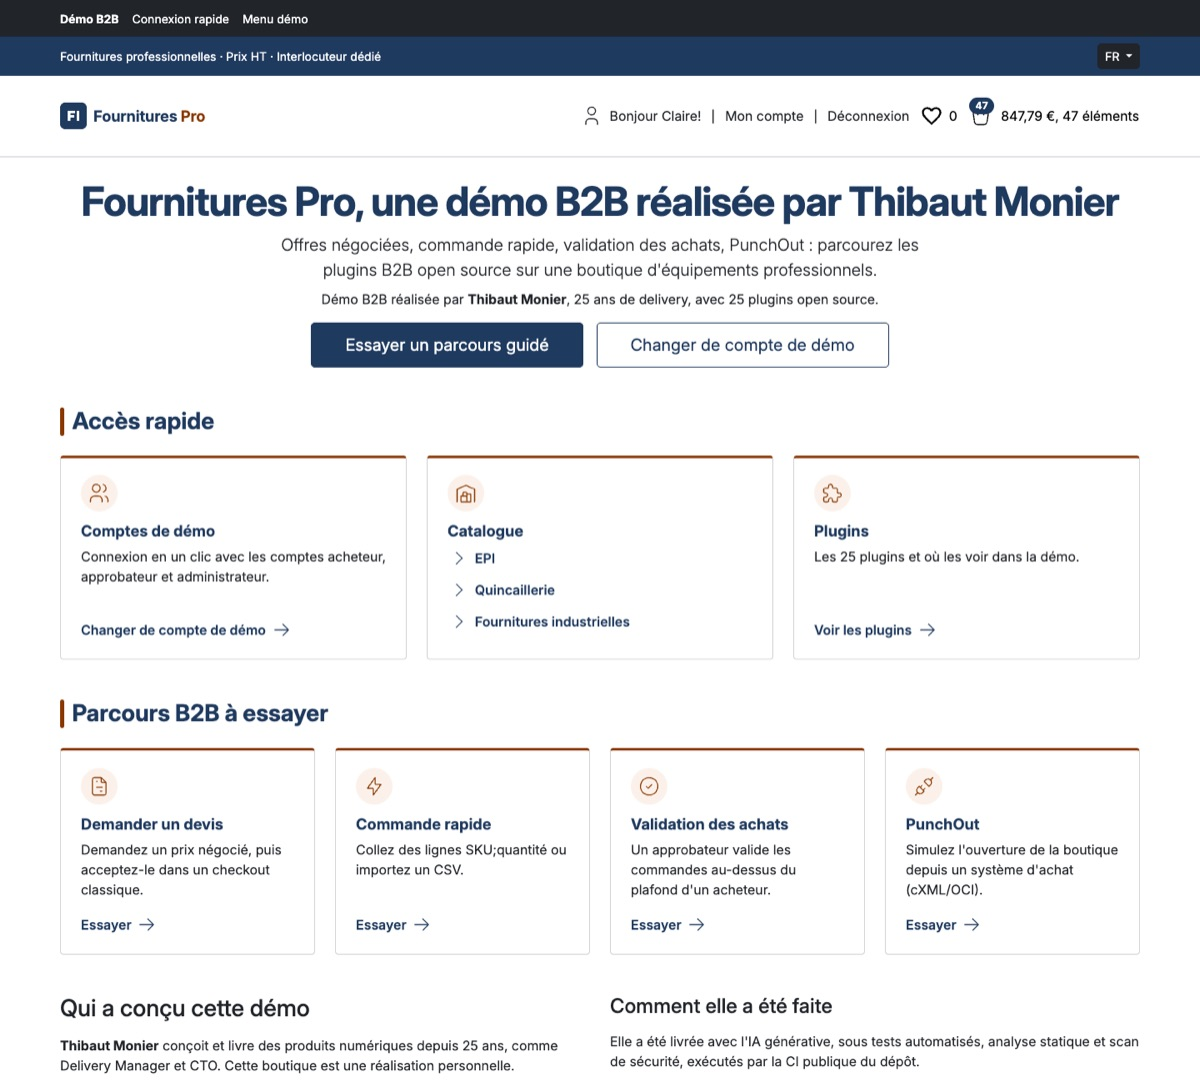
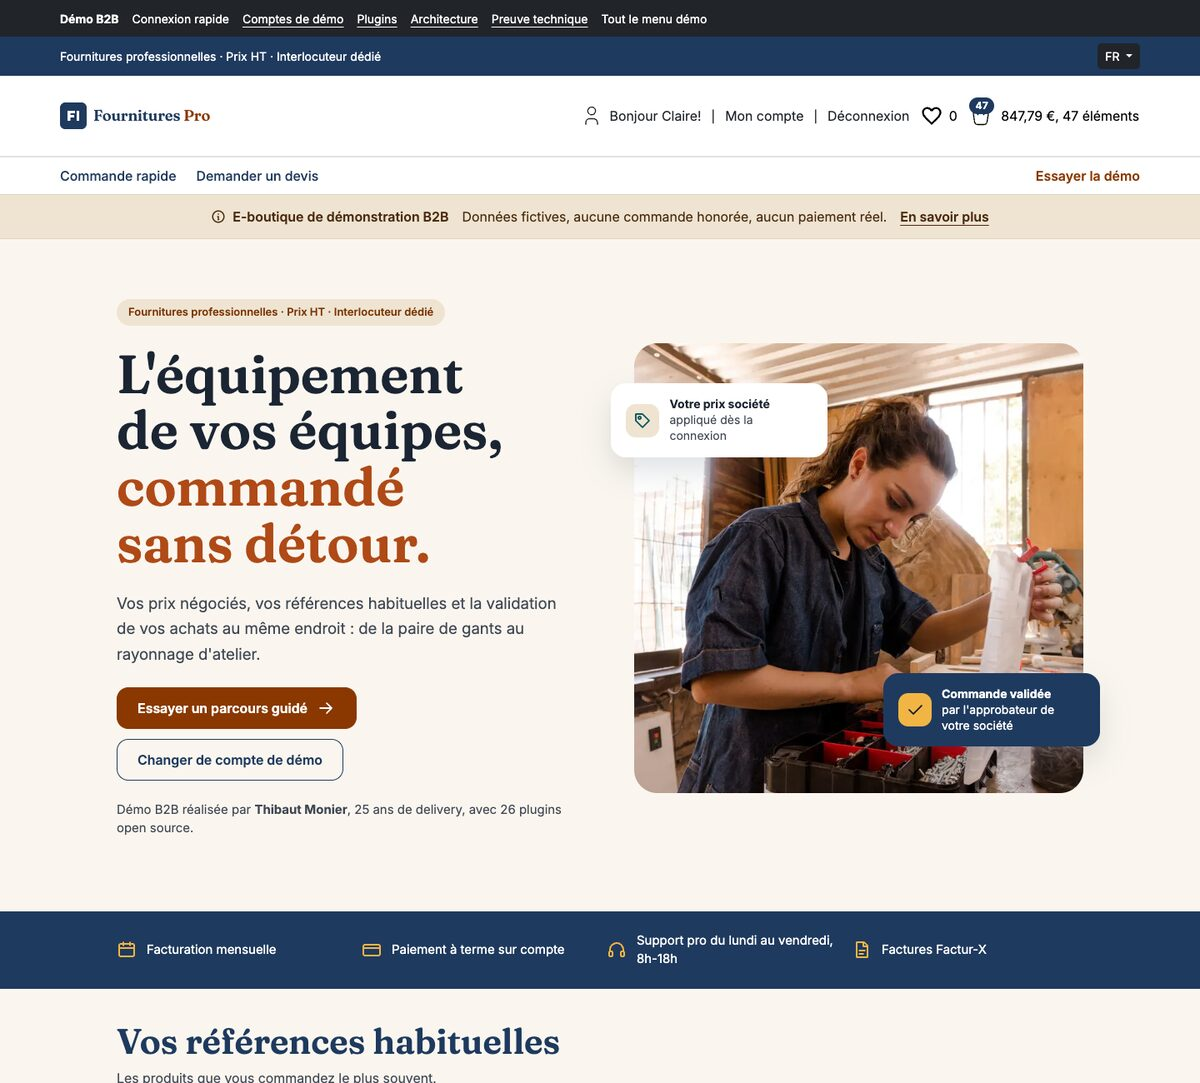
fix(home): US-186 liens de canal à 44 px, ligne de services dans le conteneur, préchargement avec href, captures
Captures de l'accueil (visiteur et acheteuse, FR et EN), README, statuts des tâches.

Claude-Session: https://claude.ai/code/session_01EUTS3K2bdSqoL7EFUFktDX

diff --git a/project-management/sprints/sprint-26-vitrine-et-flux/tasks/US-186-tasks.md b/project-management/sprints/sprint-26-vitrine-et-flux/tasks/US-186-tasks.md
@@ -56,13 +56,13 @@ La colonne « Réalisé par » dit qui fait la tâche : **Claude**, **Orchestrat
 | T-186-04 | [FE-WEB] | Maquette Claude Design (desktop et mobile) : hero éditorial, sections au défilement, en-tête et menu « La démo » ; publiée en artefact privé | 1,5 h | T-186-01, T-186-03 | Orchestrateur | ✅ |
 | T-186-05 | [OPS] | 📅 Thibaut valide la maquette (ou demande des retouches) : **aucun gabarit Twig avant son accord** | 0,5 h | T-186-04 | Thibaut | ✅ |
 | T-186-06 | [TEST] | Tests rouges, commités seuls et cités dans la PR : sections et ordre, liens de présentation (200), connecté (blocs produits conservés), B2C inchangé, crédit de chaque photo, budget des images (poids, dimensions, `alt`, `srcset`), charte, 360 px | 1,25 h | T-186-05 | Claude | ✅ |
-| T-186-07 | [FE-WEB] | Images optimisées : conversion (WebP, AVIF si pris en charge), tailles responsives, dimensions explicites, chargement différé hors première vue, image du hero préchargée | 1 h | T-186-06 | Claude | 🔲 |
-| T-186-08 | [FE-WEB] | Hero éditorial et système visuel : palette, typographie, fond coloré, photo, bouton principal et secondaire (`b2b.scss`, `home_hero.html.twig`) ; contrastes AAA | 2 h | T-186-06, T-186-07 | Claude | 🔲 |
-| T-186-09 | [FE-WEB] | Sections au défilement : parcours, plugins, s'intégrer, preuve par le code, auteur, rôles ou produits ; réécriture et suppression des gabarits `home_*` redondants, hooks de `demo_theme_b2b.yaml` et `demo_cta.yaml` | 2 h | T-186-08 | Claude | 🔲 |
-| T-186-10 | [FE-WEB] | En-tête et menu : entrée « La démo » (liens de présentation) et « Essayer la démo », accessibles au clavier et à 360 px ; liens du hero ; pied conservé | 1 h | T-186-08 | Claude | 🔲 |
-| T-186-11 | [DOC] | Textes FR et EN (domaine de traduction dédié), charte `PublicTextCharter`, légendes et `alt` des photos ; texte relu contre la maquette validée | 1 h | T-186-09 | Claude | 🔲 |
-| T-186-12 | [TEST] | Suite ciblée par `bin/run-tests` (`WORKER_ID=w186 …`), `bin/measure-mobile` à 360 px en local, ECS (`src tests`), PHPStan max, Rector, lint Twig et YAML ; dernières lignes citées | 1 h | T-186-09, T-186-10, T-186-11 | Claude | 🔲 |
-| T-186-13 | [DOC] | Captures `docs/images/home-*` refaites, `docs/theme-b2b.md` et README mis à jour (accueil, crédits des photos) | 0,5 h | T-186-12 | Claude | 🔲 |
+| T-186-07 | [FE-WEB] | Images optimisées : conversion (WebP, AVIF si pris en charge), tailles responsives, dimensions explicites, chargement différé hors première vue, image du hero préchargée | 1 h | T-186-06 | Claude | ✅ |
+| T-186-08 | [FE-WEB] | Hero éditorial et système visuel : palette, typographie, fond coloré, photo, bouton principal et secondaire (`b2b.scss`, `home_hero.html.twig`) ; contrastes AAA | 2 h | T-186-06, T-186-07 | Claude | ✅ |
+| T-186-09 | [FE-WEB] | Sections au défilement : parcours, plugins, s'intégrer, preuve par le code, auteur, rôles ou produits ; réécriture et suppression des gabarits `home_*` redondants, hooks de `demo_theme_b2b.yaml` et `demo_cta.yaml` | 2 h | T-186-08 | Claude | ✅ |
+| T-186-10 | [FE-WEB] | En-tête et menu : entrée « La démo » (liens de présentation) et « Essayer la démo », accessibles au clavier et à 360 px ; liens du hero ; pied conservé | 1 h | T-186-08 | Claude | ✅ |
+| T-186-11 | [DOC] | Textes FR et EN (domaine de traduction dédié), charte `PublicTextCharter`, légendes et `alt` des photos ; texte relu contre la maquette validée | 1 h | T-186-09 | Claude | ✅ |
+| T-186-12 | [TEST] | Suite ciblée par `bin/run-tests` (`WORKER_ID=w186 …`), `bin/measure-mobile` à 360 px en local, ECS (`src tests`), PHPStan max, Rector, lint Twig et YAML ; dernières lignes citées | 1 h | T-186-09, T-186-10, T-186-11 | Claude | ✅ |
+| T-186-13 | [DOC] | Captures `docs/images/home-*` refaites, `docs/theme-b2b.md` et README mis à jour (accueil, crédits des photos) | 0,5 h | T-186-12 | Claude | ✅ |
 | T-186-14 | [TEST] | Vérification en production après le déploiement automatique de `main` (lecture seule) : pa11y WCAG2AAA en FR et en EN, 360 px et 1280 px, LCP mobile « après » (même protocole que T-186-02), liens de présentation ; comparaison avant/après notée | 1,25 h | merge de la PR | Claude | 🔲 |
 | T-186-15 | [REV] | Revue (ton neutre, parité FR et EN, crédits complets, aucune comparaison avec une offre commerciale) et table « scénario → test ou preuve » remplie | 0,5 h | T-186-14 | Claude | 🔲 |
 
@@ -82,6 +82,8 @@ Mesures de LCP mobile (avant, après), poids et requêtes de la home : à noter 
 | `/en_US/` | 1324 ms | 1440, 1304, 1304, 1324, 1512 | 349 Ko | 11 | 0 | 360 / 360, aucun débordement |
 
 Seuil après : sous 2,5 s (la mesure d'avant est sous le seuil).
+
+**Rendu local (T-186-12, 2026-10-24, pages rendues par le noyau puis servies en statique, Chromium).** Largeur à 360 px : `scrollWidth` 360 sur 360 en FR et en EN, aucun élément ne dépasse. Cibles : plus de contrôle de la home sous 44 px hors cœur (sélecteur de langue 51 x 31, lien « Connexion » 80 x 24, boutons du cœur de Sylius). pa11y WCAG2AAA : « No issues found! » sur la home FR, la home EN et la home de Claire connectée. Polices chargées : InterLatin, FrauncesLatin. Suite ciblée : 149 tests, 0 échec (dernière ligne : `OK, but there were issues! Tests: 149, Assertions: 910, Deprecations: 5`).
 
 **Cadrage (T-186-01).** Home relue contre le code : neuf blocs hookés (hero, promesse, accès rapides, parcours, auteur, produits ou rôles, plus le bandeau de contact). Tests touchés : `PluginsAndHomepageTest`, `PriceBreaksAndHomeSmokeTest`, `HomeAuthorTest`, `ContactCtaTest`, `DemoBannerTest`, `ThemeHooksTest`, `ClosedChannelDemoTest`, `ThemeLandmarksTest` (un `header`, un `main`, un `h1`), `ImageCreditsPageTest` (compte `[data-image-credit]`). Choix : sections = hookables (ordre par priorité) ; promesse en trois colonnes supprimée (la maquette ne la garde pas) ; bandeau de démonstration en hook `sylius_shop.base.header` (50) sur tous les écrans des deux canaux ; menu démo en `<details>` natif ; blocs produits connectés après les engagements.
 

diff --git a/README.md b/README.md
@@ -8,8 +8,10 @@ B2B demo of Sylius 2.3 with the [tmonier plugins](https://packagist.org/packages
 
 | Visiteur / Visitor | Acheteuse connectée / Signed-in buyer |
 |---|---|
-| ![Accueil de la démo pour un visiteur : trois colonnes Acheter, Valider, S'intégrer](docs/images/home-visitor-fr.jpg) | ![Accueil de la démo pour Claire, acheteuse : accès rapide et parcours B2B](docs/images/home-buyer-fr.jpg) |
-| ![Demo home page for a visitor: three columns Buy, Approve, Integrate](docs/images/home-visitor-en.jpg) | ![Demo home page for Claire, a buyer: quick access and B2B journeys](docs/images/home-buyer-en.jpg) |
+| ![Accueil de la démo pour un visiteur : hero éditorial avec photo, engagements et rayons](docs/images/home-visitor-fr.jpg) | ![Accueil de la démo pour Claire, acheteuse : hero éditorial puis ses références habituelles](docs/images/home-buyer-fr.jpg) |
+| ![Demo home page for a visitor: editorial hero with a photo, commitments and aisles](docs/images/home-visitor-en.jpg) | ![Demo home page for Claire, a buyer: editorial hero, then her usual references](docs/images/home-buyer-en.jpg) |
+
+Photos de l'accueil : huit photos Pexels (licence Pexels), créditées une à une sur la page « Crédits des images » de la démo et dans `assets/shop/images/home/credits.json`. / Home page photos: eight Pexels photos (Pexels License), credited one by one on the demo's image credits page and in `assets/shop/images/home/credits.json`.
 
 ## Comptes de démo / Demo accounts
 
